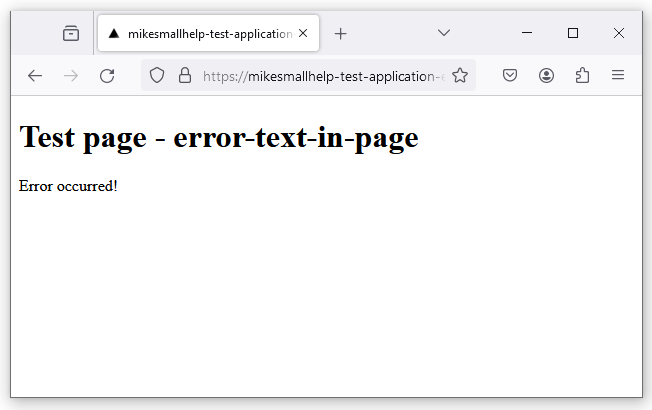
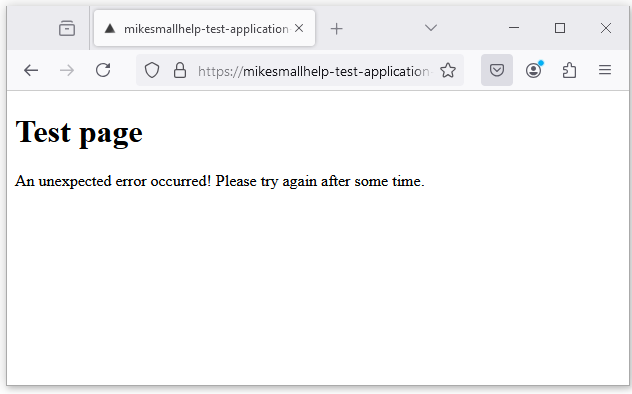
Fixed one example

Changed region(s): [[0.0, 0.0, 1.0, 1.0], [0.8718, 0.0609, 0.9019, 0.0914], [0.6614, 0.0609, 0.6915, 0.0914]]

diff --git a/README.md b/README.md
@@ -247,42 +247,41 @@ The command output is:
 ```
 Testing in url: https://mikesmallhelp-test-application-error-in-page.vercel.app. Please wait...
 
- ›   Error: 
- ›   Error occurred: Command failed: ROOT_URL='https://mikesmallhelp-test-application-error-in-page.vercel.app' CONFIGURATION_FILE_PATH=example-files/configuration-error-texts.json WAIT=2000 npx 
- ›   playwright test --project=chromium --headed
- ›    + stderr:  + stdout: 
- ›   Running 1 test using 1 worker
-     [chromium] › test.spec.ts:40:1 › test an application
- ›   In the page: https://mikesmallhelp-test-application-error-in-page.vercel.app/
-     Check the page not contain the abc text
-     Check the page not contain the An unexpected error occurred! Please try again after some time. text
+ »   Error:
+ »   Error occurred: Command failed: set ROOT_URL=https://mikesmallhelp-test-application-error-in-page.vercel.app && set CONFIGURATION_FILE_PATH=example-files\configuration-error-texts.json && npx playwright test --project=chromium
+ »   --headed
+ »    + stderr:  + stdout:
+ »   Running 1 test using 1 worker
+     [chromium] › test.spec.ts:45:1 › test an application
+ »   In the page: https://mikesmallhelp-test-application-error-in-page.vercel.app/
+     Check that the page doesn't contain the abc text
+     Check that the page doesn't contain the An unexpected error occurred! Please try again after some time. text
      In the page: https://mikesmallhelp-test-application-error-in-page.vercel.app/error-text-in-page
-     Check the page not contain the abc text
-     Check the page not contain the An unexpected error occurred! Please try again after some time. text
-       1) [chromium] › test.spec.ts:40:1 › test an application ──────────────────────────────────────────
- ›   
- ›       Error: expect(received).not.toContain(expected) // indexOf
- ›
- ›       Expected substring: not "An unexpected error occurred! Please try again after some time."
- ›       Received string:        "Test page - error-text-in-pageAn unexpected error occurred! Please try again after some time.{\"props\":{\"pageProps\":{}},\"page\":\"/error-text-in-page\",\"query\":{},\"buildId\":\"MVBwm9bMplVdAQ-ZjLXZ5\",\"nextExp
- ›   ort\":true,\"autoExport\":true,\"isFallback\":false,\"scriptLoader\":[]}"
- ›
- ›         150 |     for (const errorText of configuration.errorTextsInPages) {
- ›         151 |         console.log(`Check the page not contain the ${errorText} text`);
- ›       > 152 |         expect(content).not.toContain(errorText);
- ›             |                             ^
- ›         153 |     }
- ›         154 | }
- ›         155 |
- ›
- ›           at checkPageForErrors (/home/lenovo/projektit/wacat/e2e-tests/test.spec.ts:152:29)
- ›           at handlePage (/home/lenovo/projektit/wacat/e2e-tests/test.spec.ts:122:5)
- ›           at visitLinks (/home/lenovo/projektit/wacat/e2e-tests/test.spec.ts:398:13)
- ›           at handlePage (/home/lenovo/projektit/wacat/e2e-tests/test.spec.ts:132:5)
- ›           at /home/lenovo/projektit/wacat/e2e-tests/test.spec.ts:73:5
- ›
+     Check that the page doesn't contain the abc text
+     Check that the page doesn't contain the An unexpected error occurred! Please try again after some time. text
+       1) [chromium] › test.spec.ts:45:1 › test an application ──────────────────────────────────────────
+ »
+ »       Error: expect(received).not.toContain(expected) // indexOf
+ »
+ »       Expected substring: not "An unexpected error occurred! Please try again after some time."
+ »       Received string:        "Test page An unexpected error occurred! Please try again after some time."
+ »
+ »         177 |     for (const errorText of configuration.errorTextsInPages) {
+ »         178 |         console.log(`Check that the page doesn't contain the ${errorText} text`);
+ »       > 179 |         expect(content).not.toContain(errorText);
+ »             |                             ^
+ »         180 |     }
+ »         181 | }
+ »         182 |
+ »
+ »           at checkPageForErrors (C:\repot\wacat\e2e-tests\test.spec.ts:179:29)
+ »           at handlePage (C:\repot\wacat\e2e-tests\test.spec.ts:127:5)
+ »           at visitLinks (C:\repot\wacat\e2e-tests\test.spec.ts:507:13)
+ »           at handlePage (C:\repot\wacat\e2e-tests\test.spec.ts:137:5)
+ »           at C:\repot\wacat\e2e-tests\test.spec.ts:78:5
+ »
        1 failed
- ›       [chromium] › test.spec.ts:40:1 › test an application
+ »       [chromium] › test.spec.ts:45:1 › test an application ───────────────────────────────────────────
 ```
 
 So wacat detects "An unexpected error occurred! Please try again after some time." text in one sub page, reports error with the "1 failed" text and execution stops.
